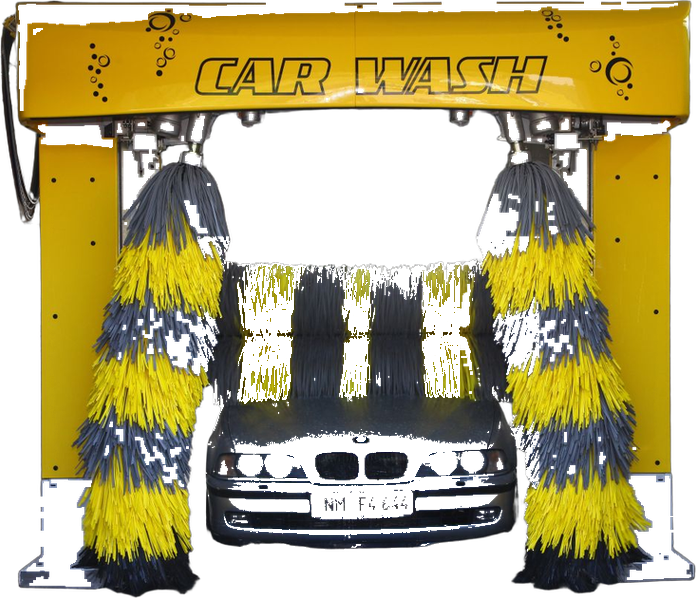
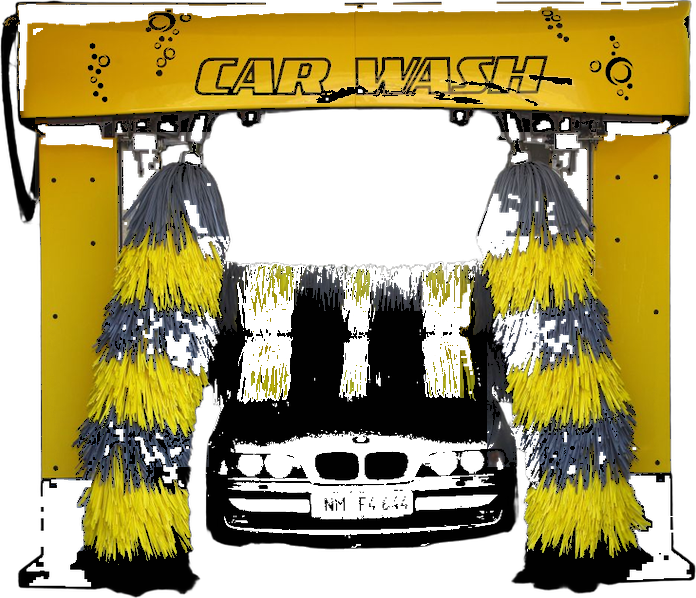
Fix trailer/sweeper hitch orientation and clean car-wash art.
Mirror prikolica and rotate metla so hitch faces the tractor; fix flip
draw anchoring; remove BMW from avtopralnica wash bay sprite.

diff --git a/src/game.ts b/src/game.ts
@@ -336,11 +336,12 @@ export class FarmGame {
     zgrabljalnik: { rot: 0, offsetX: 0, offsetY: 0.04, scale: 1.05 },
     gnojnica: { rot: 0, offsetX: 0, offsetY: 0.06, scale: 1.18 },
     kombajn: { rot: 0, offsetX: 0.18, offsetY: 0.04, scale: 1.12 },
-    prikolica: { rot: 0, offsetX: 0, offsetY: 0.08, scale: 1.22, flip: true },
+    // prikolica mirrored (hitch RIGHT); metla rotated 180° (hitch LEFT → flip).
+    prikolica: { rot: 0, offsetX: 0, offsetY: 0.08, scale: 1.22 },
     krmilnik: { rot: 0, offsetX: 0, offsetY: 0.06, scale: 1.2, flip: true },
     vitla: { rot: 0, offsetX: 0, offsetY: 0.02, scale: 0.78 },
     silazer: { rot: 0, offsetX: 0, offsetY: 0.05, scale: 1.0 },
-    metla: { rot: 0, offsetX: 0, offsetY: 0.02, scale: 0.95, front: true },
+    metla: { rot: 0, offsetX: 0, offsetY: 0.02, scale: 0.95, front: true, flip: true },
   };
 
   private ready = false;
@@ -3375,6 +3376,7 @@ export class FarmGame {
     const img = this.implementImgs[id];
     if (img) {
       // Real photo sprites: image +X → local +Y (toward tractor) via +90°.
+      // Hitch must sit on pin: hitch-RIGHT PNGs use -drawW origin; hitch-LEFT + flip use +x extent.
       if (tune.flip) ctx.scale(-1, 1);
       ctx.rotate(Math.PI / 2);
       if (front) ctx.rotate(Math.PI);
@@ -3383,7 +3385,12 @@ export class FarmGame {
       const maxDim = Math.max(iw, ih);
       const drawW = size * s * (iw / maxDim) * 1.25;
       const drawH = size * s * (ih / maxDim) * 1.25;
-      ctx.drawImage(img, -drawW + size * 0.06, -drawH / 2, drawW, drawH);
+      if (tune.flip) {
+        // After scale(-1,1), +x draw puts PNG left (hitch) on pin and body in −Y / forward.
+        ctx.drawImage(img, -size * 0.06, -drawH / 2, drawW, drawH);
+      } else {
+        ctx.drawImage(img, -drawW + size * 0.06, -drawH / 2, drawW, drawH);
+      }
     } else {
       ctx.scale(s, s);
       if (front) ctx.rotate(Math.PI);
